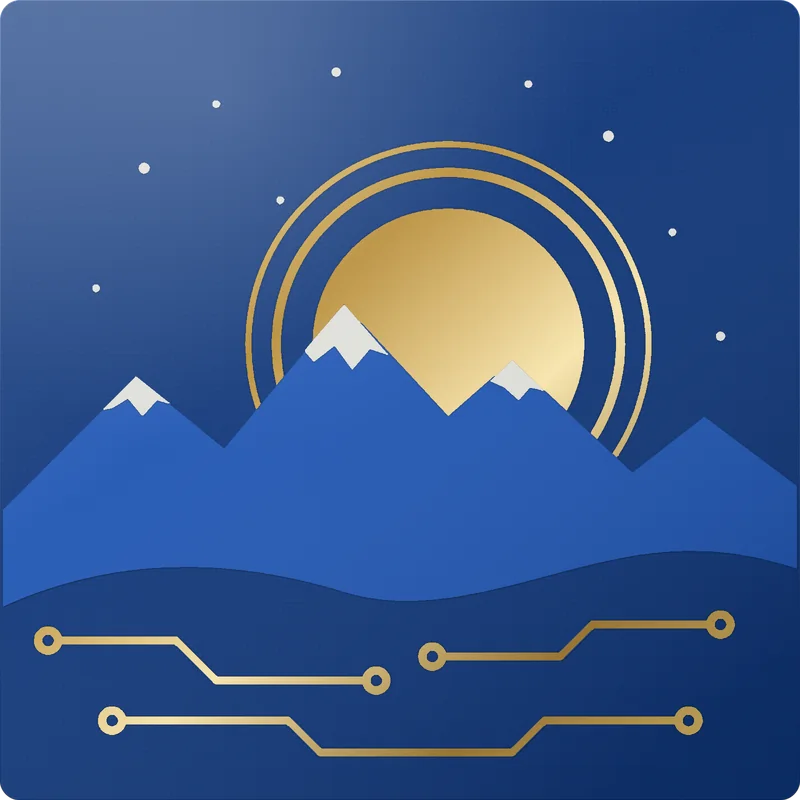
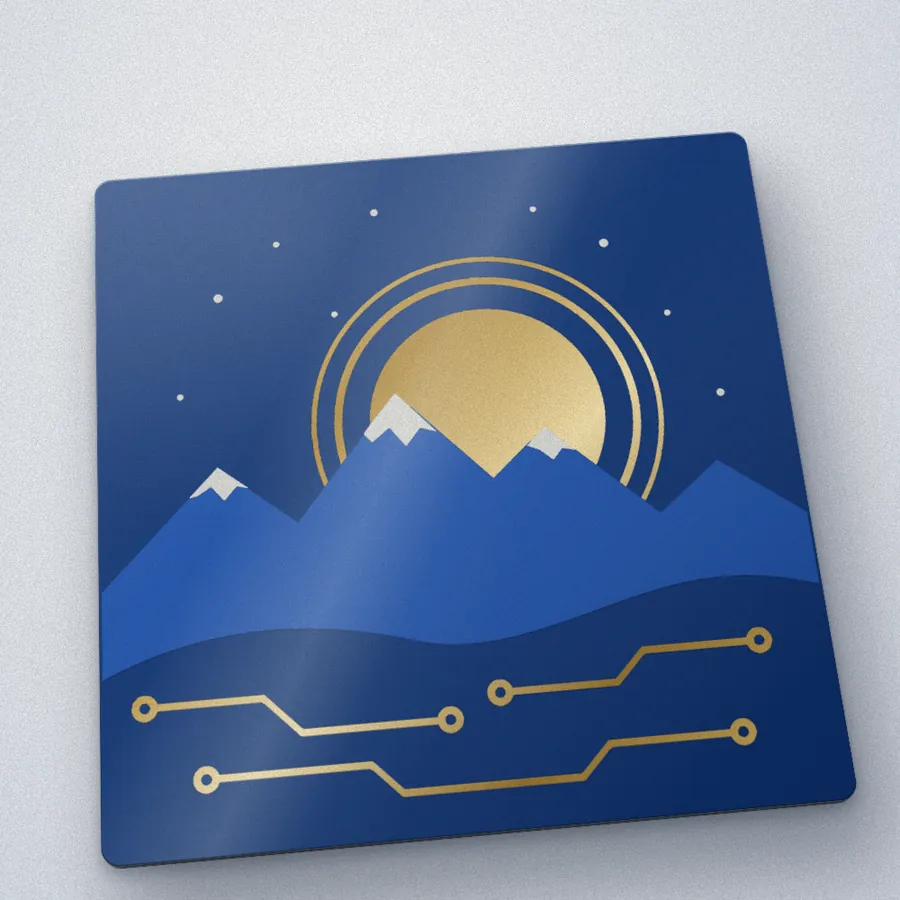
Realistic board render in the hero slider; smoother clicks and motion
- Hero slider: both sides are now the same desk scene (CSS 3D, studio light):
  the drawing as a paper print vs. the board render with its 1.6 mm edge and
  gloss. Labelled as renders in the README; no board has been ordered yet.
- Hero card gets a real "Open PCB Art Studio" button; shorter copy.
- "PCB Studio" in the main menu (Projects no longer double-highlighted there).
- Project cards are fully clickable (stretched title link), with hover lift,
  press feedback and focus ring; arrows nudge on hover; page cross-fades via
  view transitions. All of it is off with reduced motion.
- Fix: the slider sweep could throw when the first rAF timestamp predated
  performance.now() (caught by premium-site-check).

Claude-Session: https://claude.ai/code/session_01WEbHiNHA7ejQrooA7kb15W

diff --git a/src/site/redesign.css b/src/site/redesign.css
@@ -270,12 +270,12 @@ progress { accent-color: var(--accent); height: 8px; border-radius: 999px; }
 @media (max-width: 700px) { .premium-home .premium-hero { padding-bottom: 32px; } }
 
 /* Home hero: picture-to-board comparison (replaces the badge render). */
-.home-try-media.pcb-compare { position: relative; display: block; padding: clamp(16px, 3vw, 26px); background: radial-gradient(circle at 50% 38%, #eef3ff, #f6f8fd 72%); }
+.home-try-media.pcb-compare { position: relative; display: block; padding: 0; background: none; border-radius: 20px; overflow: hidden; }
 .pcb-compare { --split: 50%; }
-.pcb-compare-frame { position: relative; width: 100%; max-width: 360px; margin: 0 auto; aspect-ratio: 1; border-radius: 2.5%; filter: drop-shadow(0 18px 22px #16306633); touch-action: pan-y; user-select: none; -webkit-user-select: none; }
-.home-try-media .pcb-compare-frame img { position: absolute; inset: 0; width: 100%; height: 100%; max-width: none; aspect-ratio: 1; object-fit: cover; filter: none; transform: none !important; transition: none; }
-.pcb-compare-art { border-radius: 2.5%; clip-path: inset(0 calc(100% - var(--split)) 0 0 round 2.5% 0 0 2.5%); }
-.pcb-compare-line { position: absolute; top: -6px; bottom: -6px; left: var(--split); width: 2px; margin-left: -1px; background: #fff; box-shadow: 0 0 0 1px #0e1b3326; pointer-events: none; }
+.pcb-compare-frame { position: relative; width: 100%; margin: 0 auto; aspect-ratio: 6 / 5; touch-action: pan-y; user-select: none; -webkit-user-select: none; }
+.home-try-media .pcb-compare-frame img { position: absolute; inset: 0; width: 100%; height: 100%; max-width: none; aspect-ratio: auto; object-fit: cover; object-position: 50% 55%; filter: none; transform: none !important; transition: none; }
+.pcb-compare-art { clip-path: inset(0 calc(100% - var(--split)) 0 0); }
+.pcb-compare-line { position: absolute; top: 0; bottom: 0; left: var(--split); width: 2px; margin-left: -1px; background: #fff; box-shadow: 0 0 0 1px #0e1b3326; pointer-events: none; }
 .pcb-compare-knob { position: absolute; top: 50%; left: 50%; display: grid; place-items: center; width: 38px; height: 38px; translate: -50% -50%; border-radius: 50%; background: #fff; color: var(--accent-ink, #1f3fb8); font: 700 13px/1 var(--sans, Inter, sans-serif); letter-spacing: 2px; box-shadow: 0 6px 16px #0e1b3340; }
 .pcb-compare-tag { position: absolute; bottom: 10px; padding: 4px 9px; border-radius: 999px; background: #0e1b33cc; color: #fff; font: 600 11px/1.2 var(--sans, Inter, sans-serif); letter-spacing: .3px; pointer-events: none; transition: opacity .2s; }
 .pcb-compare-tag.is-art { left: 10px; }
@@ -285,4 +285,42 @@ progress { accent-color: var(--accent); height: 8px; border-radius: 999px; }
 .pcb-compare-range { position: absolute; inset: 0; width: 100%; height: 100%; margin: 0; opacity: 0; cursor: ew-resize; }
 .pcb-compare:has(.pcb-compare-range:focus-visible) .pcb-compare-knob { outline: 3px solid var(--accent, #2f55e0); outline-offset: 2px; }
 .home-try:has(.pcb-compare-range:active) { transform: rotate(0); }
-@media (max-width: 560px) { .pcb-compare-frame { max-width: 280px; } }
+
+/* ---- Smoothness pass (2026-11-27): bigger click targets, calmer motion, clear press feedback ---- */
+/* Project cards: the whole card opens the project (the title link stretches over it); buttons and
+   the screenshot keep their own targets on top. */
+.premium-project { position: relative; transition: transform .35s cubic-bezier(.2,.8,.2,1), box-shadow .35s, border-color .25s; }
+.premium-project h3 a { text-decoration: none; color: inherit; }
+.premium-project h3 a::after { content: ""; position: absolute; inset: 0; z-index: 1; border-radius: inherit; }
+.premium-project-actions, .premium-project-image { position: relative; z-index: 2; }
+.premium-project:hover { transform: translateY(-4px); box-shadow: var(--shadow-up); border-color: #c9d6f7; }
+.premium-project:hover h3 a { color: var(--accent-ink); }
+.premium-project:has(h3 a:active) { transform: translateY(-1px) scale(.995); }
+.premium-project-image img { transition: transform .5s cubic-bezier(.2,.8,.2,1); }
+.premium-project:hover .premium-project-image img { transform: translateY(-4px); }
+.premium-project:has(h3 a:focus-visible) { outline: 2px solid var(--accent); outline-offset: 4px; }
+.premium-project h3 a:focus-visible { outline: none !important; }
+
+/* Hero try card: a real button into the tool. */
+.home-try-actions { display: flex; flex-wrap: wrap; align-items: center; gap: 12px 18px; margin-top: 4px; }
+.home-try-actions .button { min-height: 46px; padding: 11px 20px; gap: 10px; font-size: 14px; }
+
+/* Links and buttons: arrows nudge on hover, everything gives a small press. */
+.button span[aria-hidden="true"], .text-link span[aria-hidden="true"], .task-open span[aria-hidden="true"] { display: inline-block; transition: transform .2s cubic-bezier(.2,.8,.2,1); }
+.button:hover span[aria-hidden="true"], .text-link:hover span[aria-hidden="true"], .task-card:hover .task-open span[aria-hidden="true"] { transform: translate(2px, -1px); }
+.text-link { transition: color .15s; }
+.task-card { transition: transform .3s cubic-bezier(.2,.8,.2,1), box-shadow .3s, border-color .2s; }
+.task-card:active, .home-bench a:active, .project-row:active { transform: translateY(-1px) scale(.99); transition-duration: .08s; }
+#site-navigation a { transition: background .15s, color .15s; }
+#site-navigation a:active { transform: scale(.97); }
+
+/* Smooth cross-page fades in browsers that support view transitions. */
+@view-transition { navigation: auto; }
+::view-transition-old(root), ::view-transition-new(root) { animation-duration: .22s; animation-timing-function: cubic-bezier(.2,.8,.2,1); }
+.site-header-band { view-transition-name: site-header; }
+
+@media (prefers-reduced-motion: reduce) {
+  @view-transition { navigation: none; }
+  .premium-project:hover, .premium-project:hover .premium-project-image img { transform: none; }
+  .button:hover span[aria-hidden="true"], .text-link:hover span[aria-hidden="true"], .task-card:hover .task-open span[aria-hidden="true"] { transform: none; }
+}

diff --git a/index.html b/index.html
@@ -27,23 +27,23 @@
         <div class="personal-actions"><a class="button primary" href="/projects/pcb-art-studio/">Turn a picture into a PCB <span aria-hidden="true">↗</span></a><a class="text-link" href="#projects">Explore my work <span aria-hidden="true">↓</span></a></div>
       </div>
       <aside class="home-try" aria-labelledby="try-title">
-        <!-- Picture-to-board comparison: the drawing on the left, the studio's render of the same file on the right.
-             Both come from /assets/pcb-art/sunrise.svg run through PCB Art Studio (square tile, blue mask, ENIG). -->
+        <!-- Picture-to-board comparison: the drawing as a paper print and a photorealistic render of the board PCB Art
+             Studio makes from it (square tile, blue mask, ENIG), in the same scene. A render, not a photo of an ordered board. -->
         <div class="home-try-media pcb-compare" data-compare>
           <div class="pcb-compare-frame">
-            <img class="pcb-compare-board" src="/assets/screenshots/pcb-sunrise-board.webp" width="800" height="800" alt="The same picture as a finished circuit board: blue solder mask, gold sun and traces, white snow and stars" decoding="async" fetchpriority="high">
-            <img class="pcb-compare-art" src="/assets/pcb-art/sunrise.svg" width="800" height="800" alt="Original drawing: a gold sun behind blue mountains under a night sky, with circuit traces in the foreground" decoding="async">
+            <img class="pcb-compare-board" src="/assets/screenshots/pcb-sunrise-board.webp" width="900" height="900" alt="Render of the same picture as a finished circuit board lying on a desk: glossy blue solder mask, gold sun and traces, white snow and stars" decoding="async" fetchpriority="high">
+            <img class="pcb-compare-art" src="/assets/screenshots/pcb-sunrise-art.webp" width="900" height="900" alt="Original drawing printed on paper: a gold sun behind blue mountains under a night sky, with circuit traces in the foreground" decoding="async">
             <span class="pcb-compare-line" aria-hidden="true"><span class="pcb-compare-knob">‹ ›</span></span>
             <span class="pcb-compare-tag is-art" aria-hidden="true">Your picture</span>
-            <span class="pcb-compare-tag is-board" aria-hidden="true">Real PCB</span>
+            <span class="pcb-compare-tag is-board" aria-hidden="true">Your board</span>
           </div>
           <input class="pcb-compare-range" type="range" min="0" max="100" value="50" step="1" aria-label="Slide between the picture and the finished board">
         </div>
         <div class="home-try-copy">
           <p class="eyebrow">TRY IT NOW · 2 MINUTES</p>
           <h2 id="try-title">From a drawing to a real circuit board.</h2>
-          <p>Drag the slider: navy stays solder mask, blue turns into copper under the mask, gold into plated metal and white into print. Try it with your own picture and download Gerber files a board maker can produce, right in your browser.</p>
-          <a class="text-link" href="/projects/pcb-art-studio/?example=sunrise">Open this example in PCB Art Studio <span aria-hidden="true">↗</span></a>
+          <p>Drag the slider: each colour becomes solder mask, copper, gold or white print. Try it with your own picture and download files a board maker can produce.</p>
+          <div class="home-try-actions"><a class="button primary" href="/projects/pcb-art-studio/">Open PCB Art Studio <span aria-hidden="true">→</span></a><a class="text-link" href="/projects/pcb-art-studio/?example=sunrise">Try this picture <span aria-hidden="true">↗</span></a></div>
         </div>
       </aside>
     </section>

diff --git a/src/site/templates.js b/src/site/templates.js
@@ -18,13 +18,15 @@ export const sitePaths = [
 export const retiredPaths = ['/tools/product-kit/'];
 
 function header(path) {
-  const navigation = [['/', 'Home'], ['/about/', 'About'], ['/projects/', 'Projects'], ['/tools/', 'Tools'], ['/downloads/', 'Downloads']];
+  const navigation = [['/', 'Home'], ['/about/', 'About'], ['/projects/', 'Projects'], ['/projects/pcb-art-studio/', 'PCB Studio'], ['/tools/', 'Tools'], ['/downloads/', 'Downloads']];
+  // PCB Studio has its own nav item, so Projects is not also marked current on its pages.
+  const isCurrent = href => href === '/' ? path === '/' : href === '/projects/' ? path.startsWith(href) && !path.startsWith('/projects/pcb-art-studio/') : path.startsWith(href);
   const finder = '<button type="button" class="tool-switcher-trigger" data-open-tools hidden aria-haspopup="dialog" title="Find a tool (Ctrl or Command + K)"><span aria-hidden="true">⌕</span> Find a tool <kbd aria-hidden="true">Ctrl K</kbd></button>';
   return `<a class="skip-link" href="#main">Skip to content</a>
 <div class="site-header-band"><header class="site-header wrap hub-header">
   <a class="wordmark" href="/"><span class="monogram" aria-hidden="true">u.</span><span>umut alisoglu<span class="wordmark-dot">.</span><small>software &amp; projects</small></span></a>
   <button class="site-menu-toggle" type="button" aria-expanded="false" aria-controls="site-navigation" hidden><span>Menu</span><span class="menu-lines" aria-hidden="true"></span></button>
-  <nav id="site-navigation" aria-label="Main navigation">${navigation.map(([href, label]) => `<a href="${href}"${(href === '/' ? path === '/' : path.startsWith(href)) ? ` aria-current="${path === href ? 'page' : 'true'}"` : ''}>${label}</a>`).join('')}${finder}<a href="/contact/" class="nav-contact"${path === '/contact/' ? ' aria-current="page"' : ''}>Say hello <span aria-hidden="true">↗</span></a></nav>
+  <nav id="site-navigation" aria-label="Main navigation">${navigation.map(([href, label]) => `<a href="${href}"${isCurrent(href) ? ` aria-current="${path === href ? 'page' : 'true'}"` : ''}>${label}</a>`).join('')}${finder}<a href="/contact/" class="nav-contact"${path === '/contact/' ? ' aria-current="page"' : ''}>Say hello <span aria-hidden="true">↗</span></a></nav>
 </header></div>`;
 }
 const footer = `<footer class="site-footer wrap new-footer"><a class="footer-brand" href="/">umut alisoglu<span>.</span><small>Thanks for stopping by.</small></a><div><a href="/about/">About me</a><a href="/contact/">Contact & feedback</a><a href="/tools/workspace/">FileForge workspace</a><a href="/downloads/">Downloads</a><a href="/projects/#experiments">Other projects</a><a href="/idea-machine/">Idea generator</a><button type="button" data-open-offline class="footer-offline">Offline tools</button><a href="/privacy/">Privacy</a><a href="/THIRD_PARTY_NOTICES.md">Credits</a></div><p class="footer-note"><span>© 2026 Umut Alisoglu</span><a href="https://github.com/UmutAlisoglu/umutalisoglu.github.io">This site on GitHub ↗</a></p></footer>`;

diff --git a/src/site/redesign.js b/src/site/redesign.js
@@ -54,8 +54,9 @@ for (const compare of document.querySelectorAll('[data-compare]')) {
     const ease = t => t < .5 ? 2 * t * t : 1 - (-2 * t + 2) ** 2 / 2;
     const frame = now => {
       if (touched) return;
-      const t = now - start, i = keys.findIndex(([at]) => at > t);
-      if (i < 0) { range.value = 50; set(50); return; }
+      // rAF timestamps can be slightly older than performance.now(), so clamp to the first key.
+      const t = Math.max(1, now - start), i = keys.findIndex(([at]) => at > t);
+      if (i < 1) { range.value = 50; set(50); return; }
       const [t0, v0] = keys[i - 1], [t1, v1] = keys[i], v = v0 + (v1 - v0) * ease((t - t0) / (t1 - t0));
       range.value = Math.round(v); set(v);
       requestAnimationFrame(frame);

diff --git a/assets/screenshots/README.md b/assets/screenshots/README.md
@@ -13,3 +13,5 @@ The Repodock dashboard image at `../repodock-dashboard.png` comes from that proj
 The pages show `.webp` copies of these screenshots (and of `repodock-dashboard.png`), made with quality 82 at the same size. They are 30–60% smaller. The originals stay for link preview cards and full-size links. After replacing a screenshot, regenerate its `.webp` copy.
 
 `pcb-sunrise-board.webp` is PCB Art Studio's own high-resolution preview (Save preview) of `../pcb-art/sunrise.svg`, a drawing made for the site, on an 80 × 80 mm square tile with blue solder mask and ENIG, rendered on 27 November 2026. The homepage slider compares it with the drawing itself. It shows the tool's preview, not a photograph of a manufactured board.
+
+Since the second pass the homepage slider uses `pcb-sunrise-art.webp` and `pcb-sunrise-board.webp`: the same scene rendered twice in a browser (CSS 3D, studio lighting, desk texture), once with the drawing as a paper print and once with PCB Art Studio's board render including its 1.6 mm edge. Both are renders, not photographs; no board has been manufactured yet.
